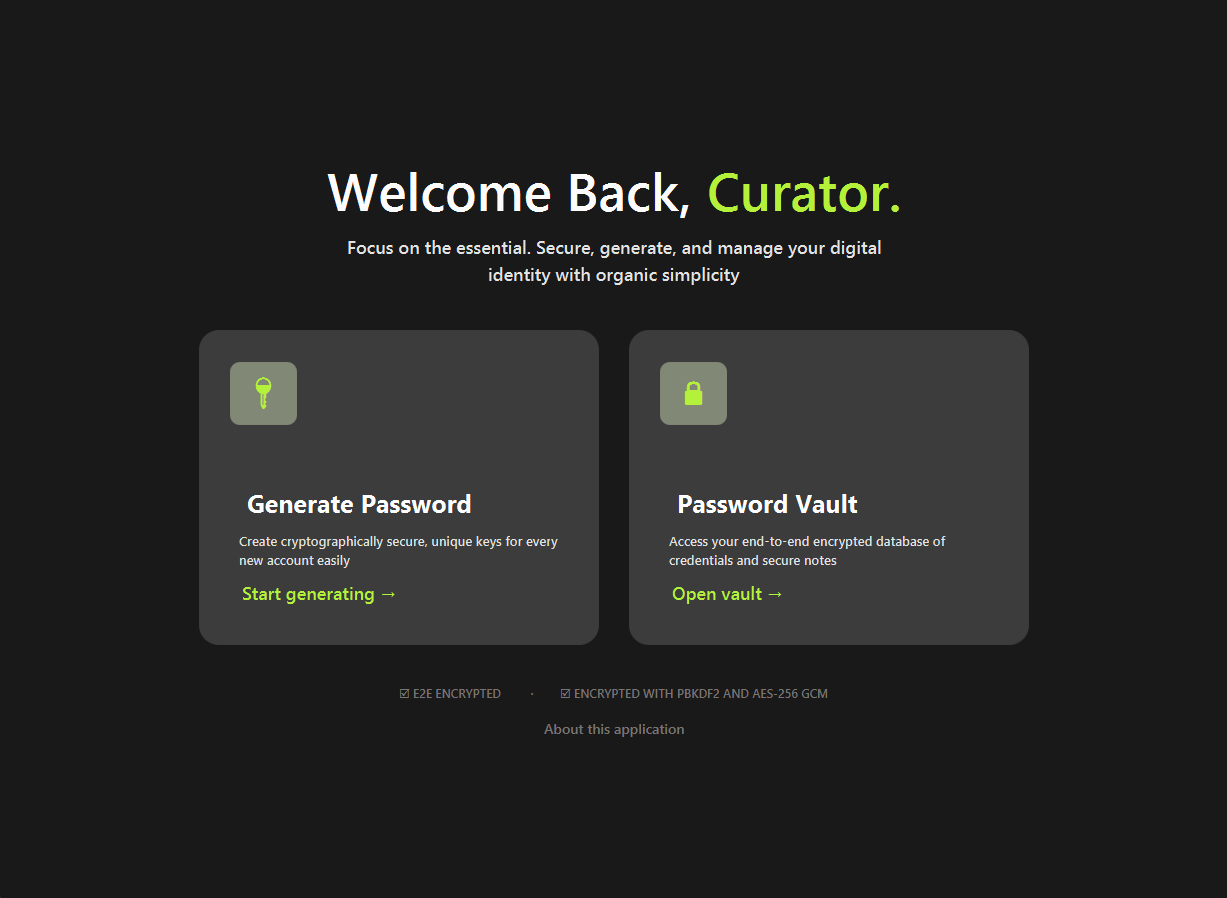
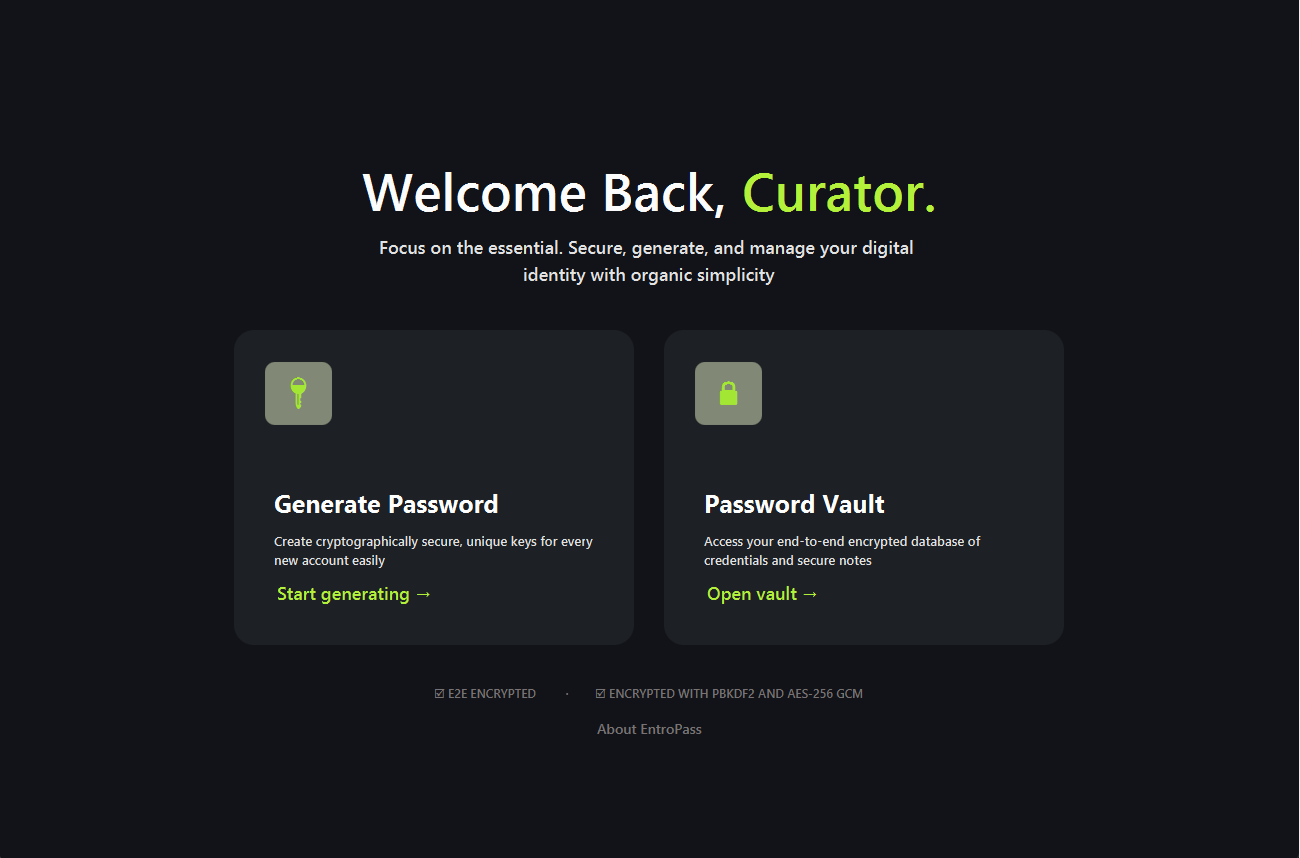
feat: updated starting page to rout to About page.

diff --git a/src/main/resources/org/password_generator_gui/Stylesheets/StartingMenuStyleSheet.css b/src/main/resources/org/password_generator_gui/Stylesheets/StartingMenuStyleSheet.css
@@ -6,7 +6,7 @@
 
 .menu-button {
     -fx-border-color: transparent;
-    -fx-background-color: #3c3c3c;
+    -fx-background-color: #1d2024;
     -fx-background-radius: 20;
     -fx-border-radius: 20;
     -fx-padding: 30;
@@ -84,4 +84,117 @@
 .about-separator .line {
     -fx-border-color: #2a2d35;
     -fx-border-width: 1 0 0 0;
+}
+
+/* === TabPane === */
+.tab-pane {
+    -fx-background-color: transparent;
+    -fx-tab-min-height: 10;
+    -fx-open-tab-animation: NONE;
+    -fx-close-tab-animation: NONE;
+}
+
+.tab-pane .tab-header-area {
+    -fx-padding: 0 0 0 0;
+}
+
+.tab-pane .tab-header-area .headers-region {
+    -fx-spacing: 6;
+}
+
+.tab-pane .tab-header-background {
+    -fx-background-color: transparent;
+}
+
+.tab-pane .tab {
+    -fx-background-color: #3c3c3c;
+    -fx-background-radius: 10 10 0 0;
+    -fx-border-color: transparent;
+    -fx-padding: 8 16 8 16;
+}
+
+.tab-pane .tab:hover {
+    -fx-background-color: #454545;
+    -fx-cursor: hand;
+}
+
+.tab-pane .tab:selected {
+    -fx-background-color: #1a1d24;
+    -fx-border-color: #a3e635 transparent transparent transparent;
+    -fx-border-width: 3 0 0 0;
+}
+
+.tab-pane .tab .tab-label {
+    -fx-text-fill: #c9c9c9;
+    -fx-font-family: "Segoe UI Semibold";
+    -fx-font-size: 13px;
+}
+
+.tab-pane .tab:selected .tab-label {
+    -fx-text-fill: #a3e635;
+}
+
+.tab-pane .tab-content-area {
+    -fx-background-color: #1a1d24;
+    -fx-background-radius: 0 0 10 10;
+    -fx-padding: 0;
+}
+
+/* Removes the default focus-highlight rectangle JavaFX draws around tabs */
+.tab-pane .tab:selected .focus-indicator,
+.tab-pane .tab .focus-indicator {
+    -fx-border-color: transparent;
+}
+
+/* === TextArea === */
+.text-area {
+    -fx-background-color: #1a1d24;
+    -fx-background-radius: 8;
+    -fx-border-color: #3c3c3c;
+    -fx-border-radius: 8;
+    -fx-border-width: 1;
+}
+
+.text-area .content {
+    -fx-background-color: #1a1d24;
+    -fx-background-radius: 8;
+}
+
+.text-area .scroll-pane {
+    -fx-background-color: transparent;
+}
+
+.text-area .scroll-pane .viewport {
+    -fx-background-color: transparent;
+}
+
+.text-area .scroll-pane .scroll-bar:vertical {
+    -fx-background-color: transparent;
+    -fx-pref-width: 12;
+}
+
+.text-area .scroll-pane .scroll-bar:vertical .thumb {
+    -fx-background-color: #3c3c3c;
+    -fx-background-radius: 6;
+}
+
+.text-area .scroll-pane .scroll-bar:vertical .thumb:hover {
+    -fx-background-color: #454545;
+}
+
+.text-area .scroll-pane .scroll-bar:vertical .track {
+    -fx-background-color: transparent;
+}
+
+.text-area .scroll-pane .increment-button,
+.text-area .scroll-pane .decrement-button {
+    -fx-pref-height: 0;
+    -fx-opacity: 0;
+}
+
+.text-area, .text-area .content, .text-area .text {
+    -fx-fill: #c9c9c9;
+    -fx-text-fill: #c9c9c9;
+    -fx-font-family: "Consolas";
+    -fx-font-size: 12px;
 }